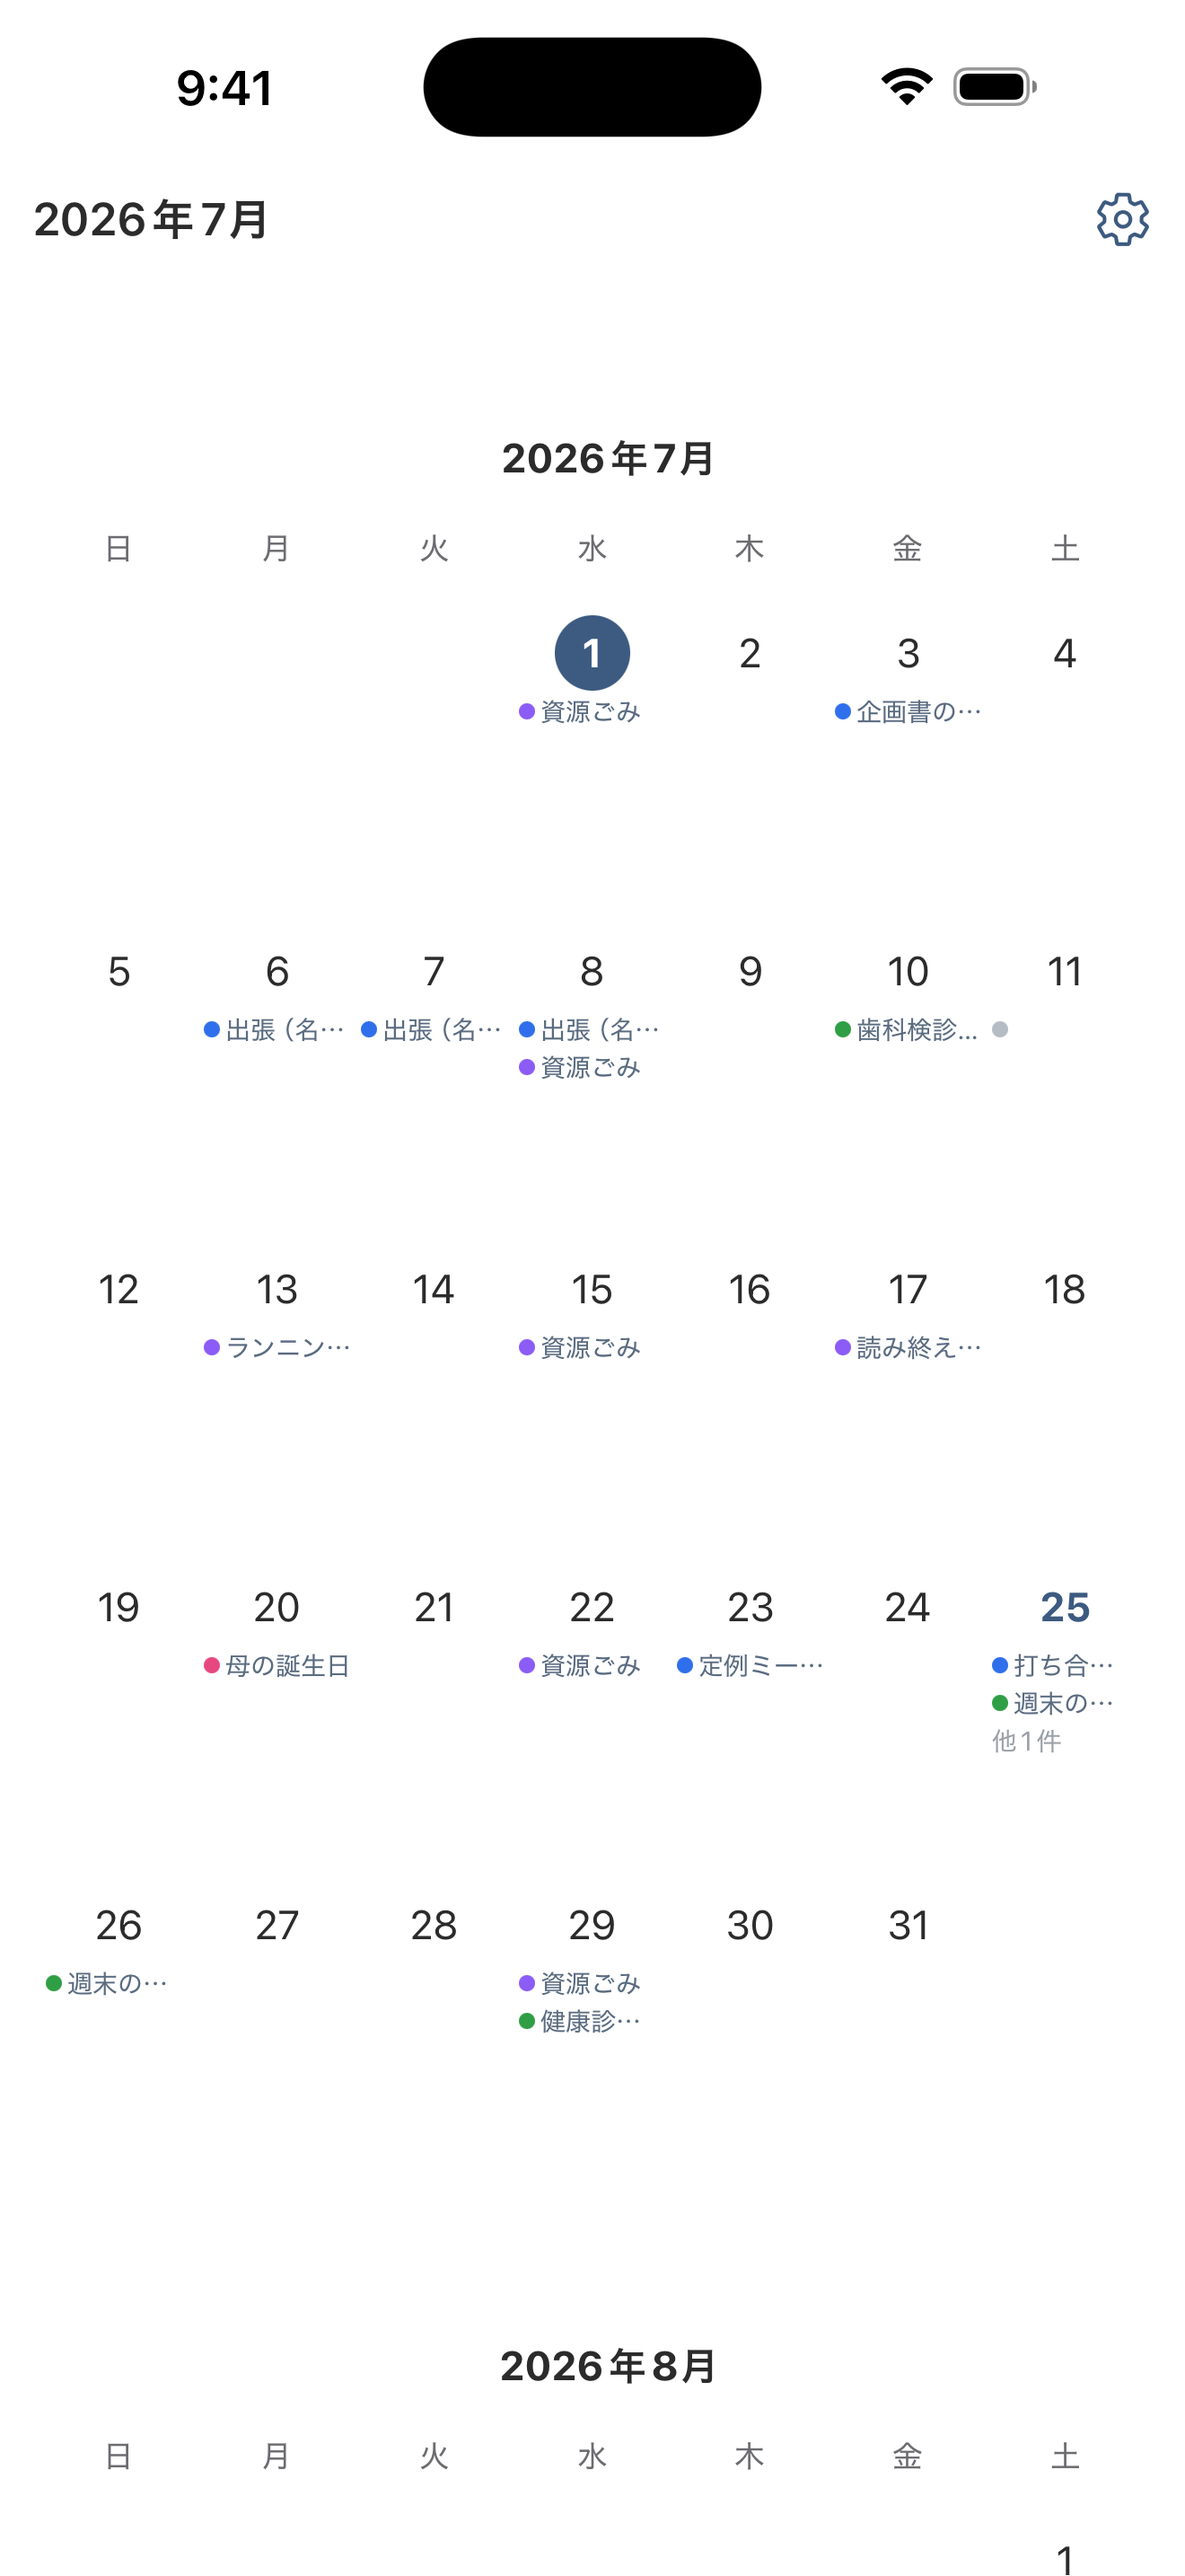
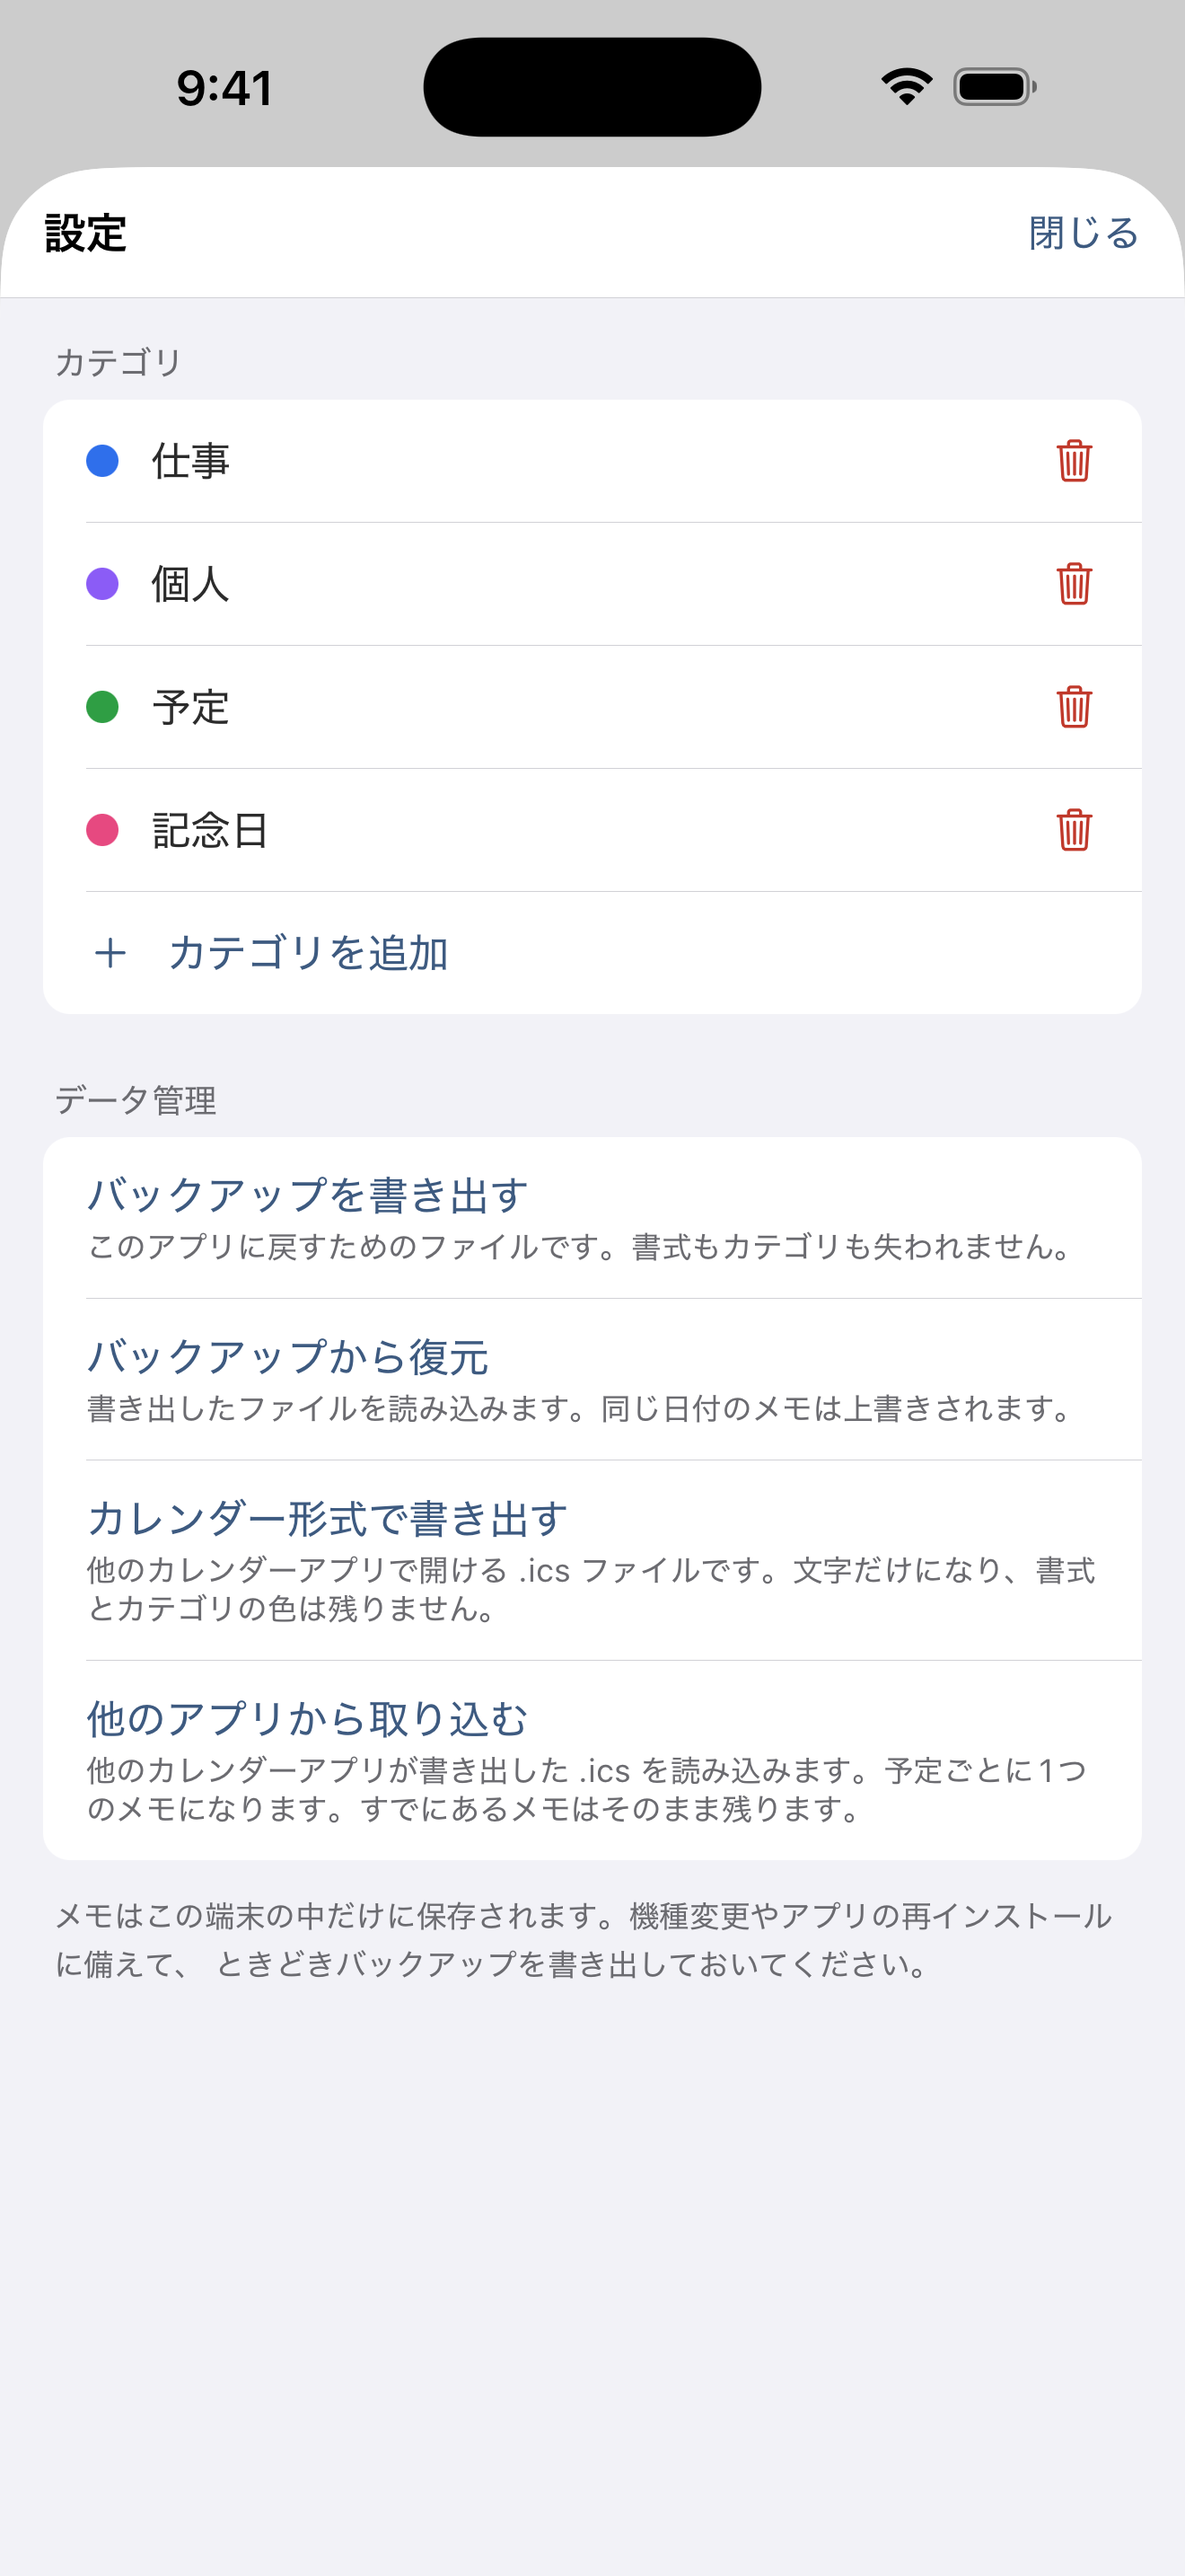
横は切らずに縦だけ切る。設定画面の画像を差し替える
- **横方向の切り抜きをやめた。** 画像の幅ぴったりに合わせ、縦だけずらして
  見せたい範囲を出す。横を切ると、左寄せの文字が変な位置で途切れて読めない
- 設定画面のスクリーンショットが中身カレンダーのままだったので撮り直した
- 「書式が使える」の切り抜き位置を下げ、ダイナミックアイランドが入らないようにした
- 詳細設定は、上の「キャンセル / 詳細設定 / 完了」から下の「終了日」まで
  1枚に収まる位置に取り直した
- カードの幅を 26rem → 30rem に。文字を少しでも大きく出す
- セクションの間を 7.5rem → 9rem、項目の間も 4.5rem → 6rem に
- 「書ける」「使える」が同じ段落で繰り返されていた箇所などを整えた

diff --git a/index.html b/index.html
@@ -146,7 +146,7 @@
         display: grid;
         gap: 1.75rem;
         align-items: center;
-        padding: 3.5rem 0;
+        padding: 4.5rem 0;
       }
       @media (min-width: 52rem) {
         .row {
@@ -167,14 +167,15 @@
         background-color: var(--panel);
         background-image: var(--src);
         background-repeat: no-repeat;
-        background-size: var(--zoom) auto;
-        background-position: var(--x) var(--y);
+        /* 横は切らない(幅ぴったり)。縦だけ --y でずらして、見せたい範囲を出す。 */
+        background-size: 100% auto;
+        background-position: 50% var(--y);
         border: 1px solid var(--rule);
         box-shadow: var(--shadow);
       }
       @media (min-width: 52rem) {
         .row-shot {
-          max-width: 26rem;
+          max-width: 30rem;
           justify-self: center;
         }
       }
@@ -215,7 +216,7 @@
 
       /* ---- sections ---- */
       section {
-        padding: 7.5rem 0;
+        padding: 9rem 0;
       }
       @media (max-width: 40rem) {
         section {
@@ -409,35 +410,35 @@
     <section class="showcase" id="showcase">
       <div class="wrap">
       <div class="row">
-        <div class="row-shot" style="--src: url('screenshots/01-calendar.png'); --zoom: 150%; --x: 50%; --y: 21%"></div>
+        <div class="row-shot" style="--src: url('screenshots/01-calendar.png'); --y: 24%"></div>
         <div class="row-text">
           <h3>ひと月ぶんを、ひと目で</h3>
-          <p>その日に書いたことが、カレンダーにそのまま並びます。縦にスクロールすれば、前後の月へそのまま続きます。</p>
+          <p>その日に書いたことが、カレンダーにそのまま並びます。縦にスクロールすれば、前後の月へ続けて見られます。</p>
         </div>
       </div>
       <div class="row">
-        <div class="row-shot" style="--src: url('screenshots/02-day-sheet.png'); --zoom: 125%; --x: 10%; --y: 71%"></div>
+        <div class="row-shot" style="--src: url('screenshots/02-day-sheet.png'); --y: 66%"></div>
         <div class="row-text">
           <h3>日付をタップするだけ</h3>
           <p>その日のメモが下から出てきます。カレンダーは見えたままなので、別の日にもすぐ移れます。</p>
         </div>
       </div>
       <div class="row">
-        <div class="row-shot" style="--src: url('screenshots/03-richtext.png'); --zoom: 130%; --x: 6%; --y: 3%"></div>
+        <div class="row-shot" style="--src: url('screenshots/03-richtext.png'); --y: 12%"></div>
         <div class="row-text">
           <h3>書式が使える</h3>
-          <p>見出し・チェックリスト・引用・リンクが使えます。買い物リストにも、打ち合わせのメモにも、日記にも。</p>
+          <p>見出しやチェックリスト、引用、リンクが使えます。買い物リストにも、打ち合わせのメモにも、日記にも。</p>
         </div>
       </div>
       <div class="row">
-        <div class="row-shot" style="--src: url('screenshots/04-schedule.png'); --zoom: 120%; --x: 50%; --y: 13%"></div>
+        <div class="row-shot" style="--src: url('screenshots/04-schedule.png'); --y: 12%"></div>
         <div class="row-text">
           <h3>予定にもなる</h3>
           <p>何日かにまたがるメモも、毎日・毎週・毎月・毎年の繰り返しも作れます。日付の設定は奥にしまってあるので、ふだんは目に入りません。</p>
         </div>
       </div>
       <div class="row">
-        <div class="row-shot" style="--src: url('screenshots/05-settings.png'); --zoom: 120%; --x: 50%; --y: 13%"></div>
+        <div class="row-shot" style="--src: url('screenshots/05-settings.png'); --y: 9%"></div>
         <div class="row-text">
           <h3>色で分けて、持ち出せる</h3>
           <p>カテゴリを付ければ、色でひと目で見分けられます。バックアップからは書式もカテゴリもそのまま戻せます。</p>
@@ -479,10 +480,10 @@
         <div>
           <h2>カレンダーなのに、<br />ちゃんと書ける。</h2>
           <p class="section-lead">
-            カレンダーに書けるアプリは、たいてい一行のタイトルしか置けません。このアプリなら
-            <strong>リッチテキストで書けます</strong>。見出しで区切り、チェックリストで持ち物を
-            並べ、引用で相手の言葉をそのまま残す。買い物リストも、打ち合わせのメモも、日記も、
-            同じ場所に書けます。
+            カレンダーに書けるアプリは、たいてい一行のタイトルしか置けません。このアプリの
+            本文欄は<strong>リッチテキスト</strong>です。見出しで区切り、チェックリストで持ち物を
+            並べ、引用で相手の言葉をそのまま残せます。買い物リストも、打ち合わせのメモも、
+            日記も、同じ場所にまとめられます。
           </p>
           <ul class="chips">
             <li>見出し</li>
@@ -520,8 +521,8 @@
         <div class="card">
           <h3>書式が使える</h3>
           <p>
-            見出し・太字・箇条書き・チェックリスト・引用・リンク。買い物リストにも、
-            打ち合わせのメモにも。
+            見出し・太字・箇条書き・チェックリスト・引用・リンクを用意しています。
+            買い物リストにも、打ち合わせのメモにも。
           </p>
         </div>
         <div class="card">
@@ -549,7 +550,7 @@
           <h3>他のカレンダーとも</h3>
           <p>
             .ics 形式で書き出し・取り込みができます。他のカレンダーアプリから乗り換えるときにも、
-            他のアプリへ移るときにも。
+            他のアプリへ移るときにも使えます。
           </p>
         </div>
       </div>
